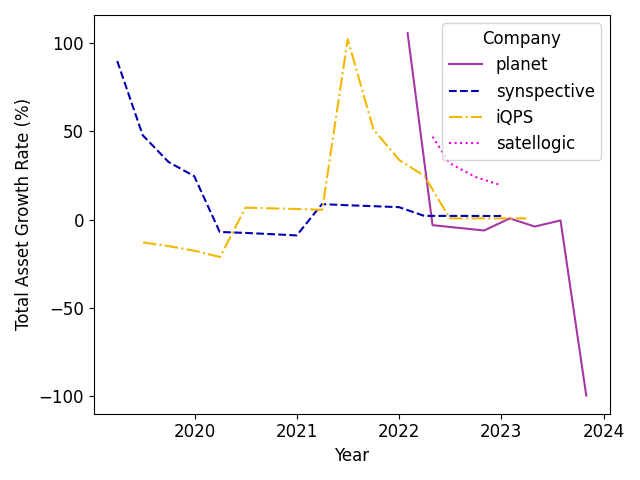
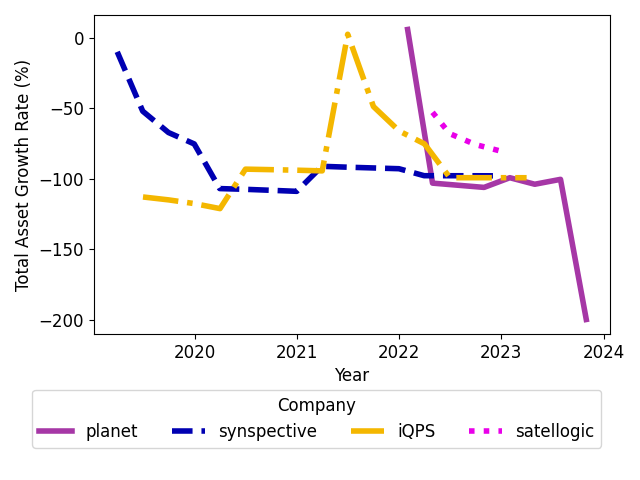
[UPDATE] plotting style

diff --git a/data_loading.py b/data_loading.py
@@ -109,27 +109,42 @@ for i, key in enumerate(keys):
     divEquity = []
     for i in range(1, len(lnAssets)):
         logAssets.append(lnAssets[i] - lnAssets[i-1])
-        divAssets.append(((totalAssets[i]/totalAssets[i-1]) - 1)*100)
+        divAssets.append((((totalAssets[i] - totalAssets[i-1])/totalAssets[i-1]) - 1)*100)
         logLiabilities.append(lnLiabilities[i] - lnLiabilities[i-1])
-        divLiabilities.append(((totalLiabilities[i]/totalLiabilities[i-1]) - 1)*100)
+        divLiabilities.append((((totalLiabilities[i] - totalLiabilities[i-1])/totalLiabilities[i-1]) - 1)*100)
         logEquity.append(lnEquity[i] - lnEquity[i-1])
-        divEquity.append(((totalEquity[i]/totalEquity[i-1]) - 1)*100)
+        divEquity.append((((totalEquity[i] - totalEquity[i-1])/totalEquity[i-1]) - 1)*100)
 
     companyColor = np.asarray(keys[key]["color"])/255
-    ax1.plot(data["Quarter"][1:], divAssets, color=companyColor, linestyle=keys[key]["style"], label=key)
-    ax2.plot(data["Quarter"][1:], divLiabilities, color=companyColor, linestyle=keys[key]["style"], label=key)
-    ax3.plot(data["Quarter"][1:], divEquity, color=companyColor, linestyle=keys[key]["style"], label=key)
+    ax1.plot(data["Quarter"][1:], divAssets, color=companyColor, linestyle=keys[key]["style"], label=key, linewidth=4)
+    ax2.plot(data["Quarter"][1:], divLiabilities, color=companyColor, linestyle=keys[key]["style"], label=key, linewidth=4)
+    ax3.plot(data["Quarter"][1:], divEquity, color=companyColor, linestyle=keys[key]["style"], label=key, linewidth=4)
 
 plt.rcParams['legend.title_fontsize'] = '12'
 
 fig1.tight_layout()
-ax1.legend(loc='upper right', title=legendTitle, fontsize='12', frameon=True)
+box1 = ax1.get_position()
+ax1.set_position([box1.x0, box1.y0 + box1.height * 0.2,
+                 box1.width, box1.height * 0.8])
+ax1.legend(ncol=4, bbox_to_anchor=(1, -0.15),
+          fancybox=True, title=legendTitle, fontsize='12', frameon=True)
 fig1.savefig(f"{fig1_path}")
+
 fig2.tight_layout()
-ax2.legend(loc='upper right', title=legendTitle, fontsize='12', frameon=True)
+box2 = ax2.get_position()
+ax2.set_position([box2.x0, box2.y0 + box2.height * 0.2,
+                 box2.width, box2.height * 0.8])
+ax2.legend(ncol=4, bbox_to_anchor=(1, -0.15),
+          fancybox=True, title=legendTitle, fontsize='12', frameon=True)
 fig2.savefig(f"{fig2_path}")
+
 fig3.tight_layout()
-ax3.legend(loc='upper right', title=legendTitle, fontsize='12', frameon=True)
+box3 = ax3.get_position()
+ax3.set_position([box3.x0, box3.y0 + box3.height * 0.2,
+                 box3.width, box3.height * 0.8])
+ax3.legend(ncol=4, bbox_to_anchor=(1, -0.15),
+          fancybox=True, title=legendTitle, fontsize='12', frameon=True)
+ax3.text(0.65, 0.96, 'SATL moves to U.S.A.', weight='bold', transform=ax3.transAxes)
 fig3.savefig(f"{fig3_path}")
 
 # plot_acf(logAssets, lags=16, color = 'red').set_size_inches(16,6)
